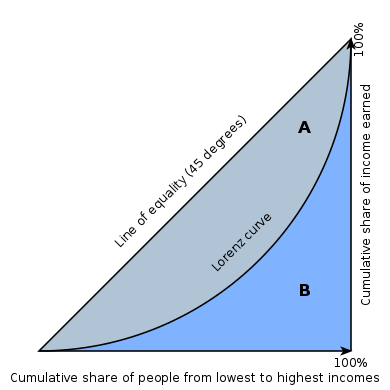
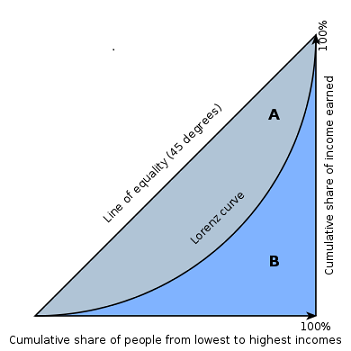
pics

diff --git a/_research/inequality.md b/_research/inequality.md
@@ -3,10 +3,10 @@ title: "Inequality"
 layout: single
 author_profile: true
 collection: research
-excerpt: <img src="/assets/images/Lorenz.png" alt=''>
+excerpt: <img src="/assets/images/Lorenz.jpg" alt=''>
 order_number: 10
 header: 
-  og_image: /assets/images/Lorenz.png
+  og_image: /assets/images/Lorenz.jpg
 ---
 
 Text
